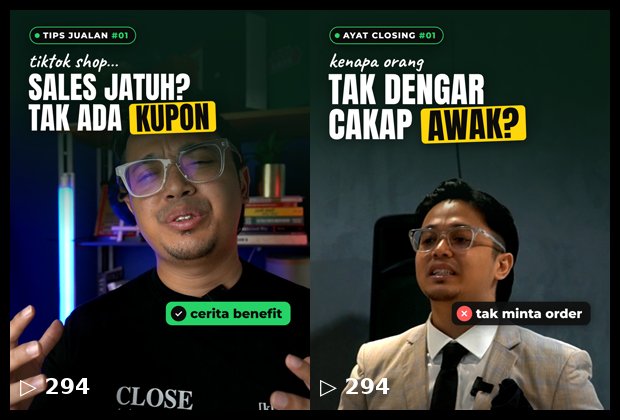
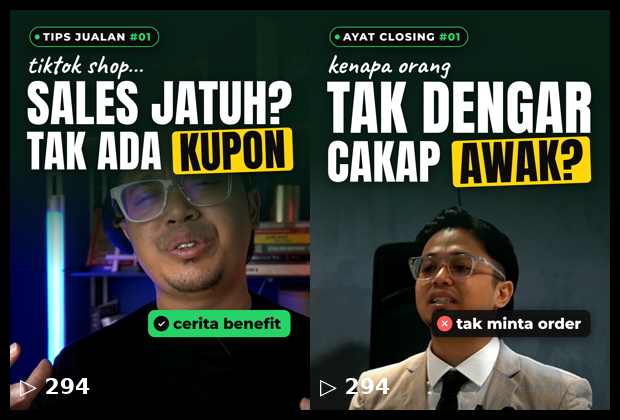
Thumbnail standard: cover style with full-width headline lines
Claude-Session: https://claude.ai/code/session_01TPky1w8Wov62TaY2TNfc4t

diff --git a/motion/thumbnail-std/index.html b/motion/thumbnail-std/index.html
@@ -1,9 +1,10 @@
 <!doctype html>
 <!--
   THUMBNAIL STANDARD — Sir Dharma (TikTok 1080x1920). Lihat BRANDKIT.md bahagian "Thumbnail".
+  GAYA COVER: setiap baris headline dibesarkan sampai penuh lebar.
   Zon (grid profil potong 3:4 = y 240–1680; views "▷ 123" di bawah kiri):
-    Badge siri  : y 300          Headline : y 380–1000 (maks 2 baris + keyword)
-    Muka        : pusat ~y 1150  Callout  : kanan, y 1260–1400
+    Badge siri  : y 300          Headline : y 390–1100 (kicker + 2 baris, penuh lebar)
+    Muka        : pusat ~y 1250  Callout  : kanan, y 1320–1440
     LARANGAN    : tiada teks y < 290 atau y > 1450, tiada teks x > 1010
   Guna: node render.cjs config.json out.png   (config: lihat contoh dalam projects/*/thumb.json)
 -->
@@ -16,19 +17,19 @@
   body { width: 1080px; height: 1920px; overflow: hidden; background: #06180f; font-family: "Montserrat", "Noto Color Emoji", sans-serif; }
   #photo { position: absolute; left: 0; top: 0; transform-origin: 0 0; filter: saturate(.95) contrast(1.06); }
   #shade { position: absolute; inset: 0; background:
-     linear-gradient(to bottom, rgba(8,32,21,.96) 0, rgba(8,32,21,.9) 520px, rgba(8,32,21,.0) 1040px),
+     linear-gradient(to bottom, rgba(8,32,21,.97) 0, rgba(8,32,21,.92) 760px, rgba(8,32,21,.0) 1180px),
      linear-gradient(to top, rgba(0,0,0,.45) 0, rgba(0,0,0,0) 420px); }
   .sh { filter: drop-shadow(0 8px 22px rgba(0,0,0,.55)); }
   #badge { position: absolute; left: 70px; top: 300px; display: flex; align-items: center; gap: 12px; padding: 10px 24px 10px 16px;
     border-radius: 999px; background: #0b0b0b; border: 3px solid #25d366; }
   #badge i { width: 18px; height: 18px; border-radius: 50%; background: #25d366; }
-  #badge b { color: #fff; font-size: 30px; letter-spacing: .08em; } #badge b span { color: #25d366; }
-  #head { position: absolute; left: 66px; right: 66px; top: 385px; }
-  #kicker { display: block; font-family: "Caveat", cursive; font-weight: 700; font-size: 74px; color: #fff; line-height: 1; margin-bottom: 4px; }
-  .ln { display: block; font-family: "Anton", sans-serif; color: #fff; font-size: 178px; line-height: 1.0; text-transform: uppercase; white-space: nowrap; letter-spacing: .5px; }
-  .kw { display: inline-block; background: #ffd60a; color: #0b0b0b; padding: 0 22px; border-radius: 14px; transform: rotate(-2deg); }
-  #co { position: absolute; right: 70px; top: 1290px; display: flex; align-items: center; gap: 14px; color: #fff;
-    font-weight: 800; font-size: 46px; padding: 14px 30px 14px 18px; border-radius: 22px; }
+  #badge b { color: #fff; font-size: 38px; letter-spacing: .08em; } #badge b span { color: #25d366; }
+  #head { position: absolute; left: 60px; right: 60px; top: 390px; }
+  #kicker { display: block; font-family: "Caveat", cursive; font-weight: 700; font-size: 96px; color: #fff; line-height: .95; margin-bottom: 6px; }
+  .ln { display: block; width: fit-content; font-family: "Anton", sans-serif; color: #fff; font-size: 240px; line-height: .98; text-transform: uppercase; white-space: nowrap; letter-spacing: 1px; }
+  .kw { display: inline-block; background: #ffd60a; color: #0b0b0b; padding: 0 24px; border-radius: 16px; transform: rotate(-2deg); margin-top: 6px; }
+  #co { position: absolute; right: 70px; top: 1320px; display: flex; align-items: center; gap: 14px; color: #fff;
+    font-weight: 800; font-size: 54px; padding: 16px 34px 16px 20px; border-radius: 24px; }
   #co.no { background: rgba(15,15,15,.88); } #co.ok { background: #25d366; color: #0b0b0b; }
   #co i { width: 56px; height: 56px; border-radius: 50%; display: flex; align-items: center; justify-content: center; font-style: normal; font-size: 34px; color: #fff; }
   #co.no i { background: #ff5a5a; } #co.ok i { background: #0b0b0b; }
@@ -40,18 +41,21 @@
   <div id="head" class="sh"><span id="kicker"></span><span class="ln" id="l1"></span><span class="ln" id="l2"></span></div>
   <div id="co" class="sh"><i></i><span></span></div>
 <script>
-  window.render = (c) => new Promise((ok) => {
+  window.render = (c) => new Promise(async (ok) => {
     const $ = (s) => document.querySelector(s);
+    await Promise.all(['300px "Anton"', '700 96px "Caveat"', '800 40px "Montserrat"'].map((f) => document.fonts.load(f)));
     $("#badge b").innerHTML = `${c.series} <span>#${c.episode}</span>`;
     $("#kicker").textContent = c.kicker || ""; if (!c.kicker) $("#kicker").style.display = "none";
     const rich = (s) => s.replace(/\[([^\]]+)\]/g, '<span class="kw">$1</span>');
     $("#l1").innerHTML = rich(c.line1); $("#l2").innerHTML = rich(c.line2 || ""); if (!c.line2) $("#l2").style.display = "none";
     if (c.callout) { $("#co").className = "sh " + (c.callout.kind || "no"); $("#co i").textContent = c.callout.kind === "ok" ? "✓" : "✕"; $("#co span").textContent = c.callout.text; }
     else $("#co").style.display = "none";
-    // Muat headline dalam lebar 948px (kecilkan seragam kedua-dua baris)
-    let z = 178; const lines = [$("#l1"), $("#l2")];
-    const fit = () => lines.forEach((l) => (l.style.fontSize = z + "px"));
-    fit(); while (lines.some((l) => l.scrollWidth > 948) && z > 90) { z -= 4; fit(); }
+    // Gaya COVER: setiap baris dibesarkan sendiri sampai penuh lebar 960px (maks 300px tinggi huruf)
+    [$("#l1"), $("#l2")].forEach((l) => {
+      if (!l.textContent) return;
+      let z = 300; l.style.fontSize = z + "px";
+      while (l.getBoundingClientRect().width > 960 && z > 100) { z -= 2; l.style.fontSize = z + "px"; }
+    });
     // Gambar: letak titik muka (fx,fy dalam frame asal) di (540, faceY) dengan skala s
     const img = $("#photo"); img.onload = () => {
       const s = c.scale || 1, fy = c.faceY || 1160;

diff --git a/BRANDKIT.md b/BRANDKIT.md
@@ -74,21 +74,21 @@ Grid profil potong thumbnail jadi **3:4 (y 240–1680)** dan letak **"▷ views"
 ```
 y=240  ┌───────────────────────┐ ← mula nampak dalam grid
 y=300  │ ● SIRI #NN            │  badge
-y=385  │ kicker (tulisan tangan)│
-       │ HEADLINE BARIS 1      │  Anton, putih, BESAR
-       │ BARIS 2 [KEYWORD]     │  1 keyword kotak KUNING
-       │      ╭─────╮          │
-y~1160 │      │MUKA │          │  muka besar, ekspresi kuat
-       │      ╰─────╯ [✕ pil] │  1 callout kanan (y 1260–1400)
+y=390  │ kicker (tulisan tangan)│
+       │ HEADLINE BARIS 1██████│  GAYA COVER: setiap baris Anton
+       │ BARIS 2 [KEYWORD]█████│  dibesarkan sampai PENUH lebar
+       │      ╭─────╮          │  1 keyword kotak KUNING
+y~1290 │      │MUKA │          │  muka besar, ekspresi kuat
+       │      ╰─────╯ [✕ pil] │  1 callout kanan (y 1320–1440)
 y=1450 │░░░░ ▷ views ░░░░░░░░░│  ✗ tiada teks
 y=1680 └───────────────────────┘ ← habis nampak dalam grid
 ```
 
 **Peraturan:**
-1. Headline **maks 2 baris, 3–6 patah perkataan**, huruf besar, font Anton.
+1. **Gaya cover:** headline **maks 2 baris, 2–3 perkataan sebaris**, Anton huruf besar — setiap baris dibesarkan automatik sampai penuh lebar (macam tajuk majalah). Tajuk boleh bertindih sedikit dengan rambut/kepala, tapi **mata mesti nampak**.
 2. **Satu** keyword dalam kotak kuning — perkataan yang paling "sakit"/menarik.
 3. Band hijau gelap di atas (sama untuk semua video) → grid nampak seragam.
-4. Muka Sir: close-up, ekspresi kuat (frust/terkejut/serius), pusat ~y 1160.
+4. Muka Sir: close-up, ekspresi kuat (frust/terkejut/serius), pusat ~y 1290.
 5. Satu pil callout (✓ hijau atau ✕ hitam) di kanan — tambah rasa ingin tahu.
 6. Tiada teks di y < 290, y > 1450, atau x > 1010.
 
